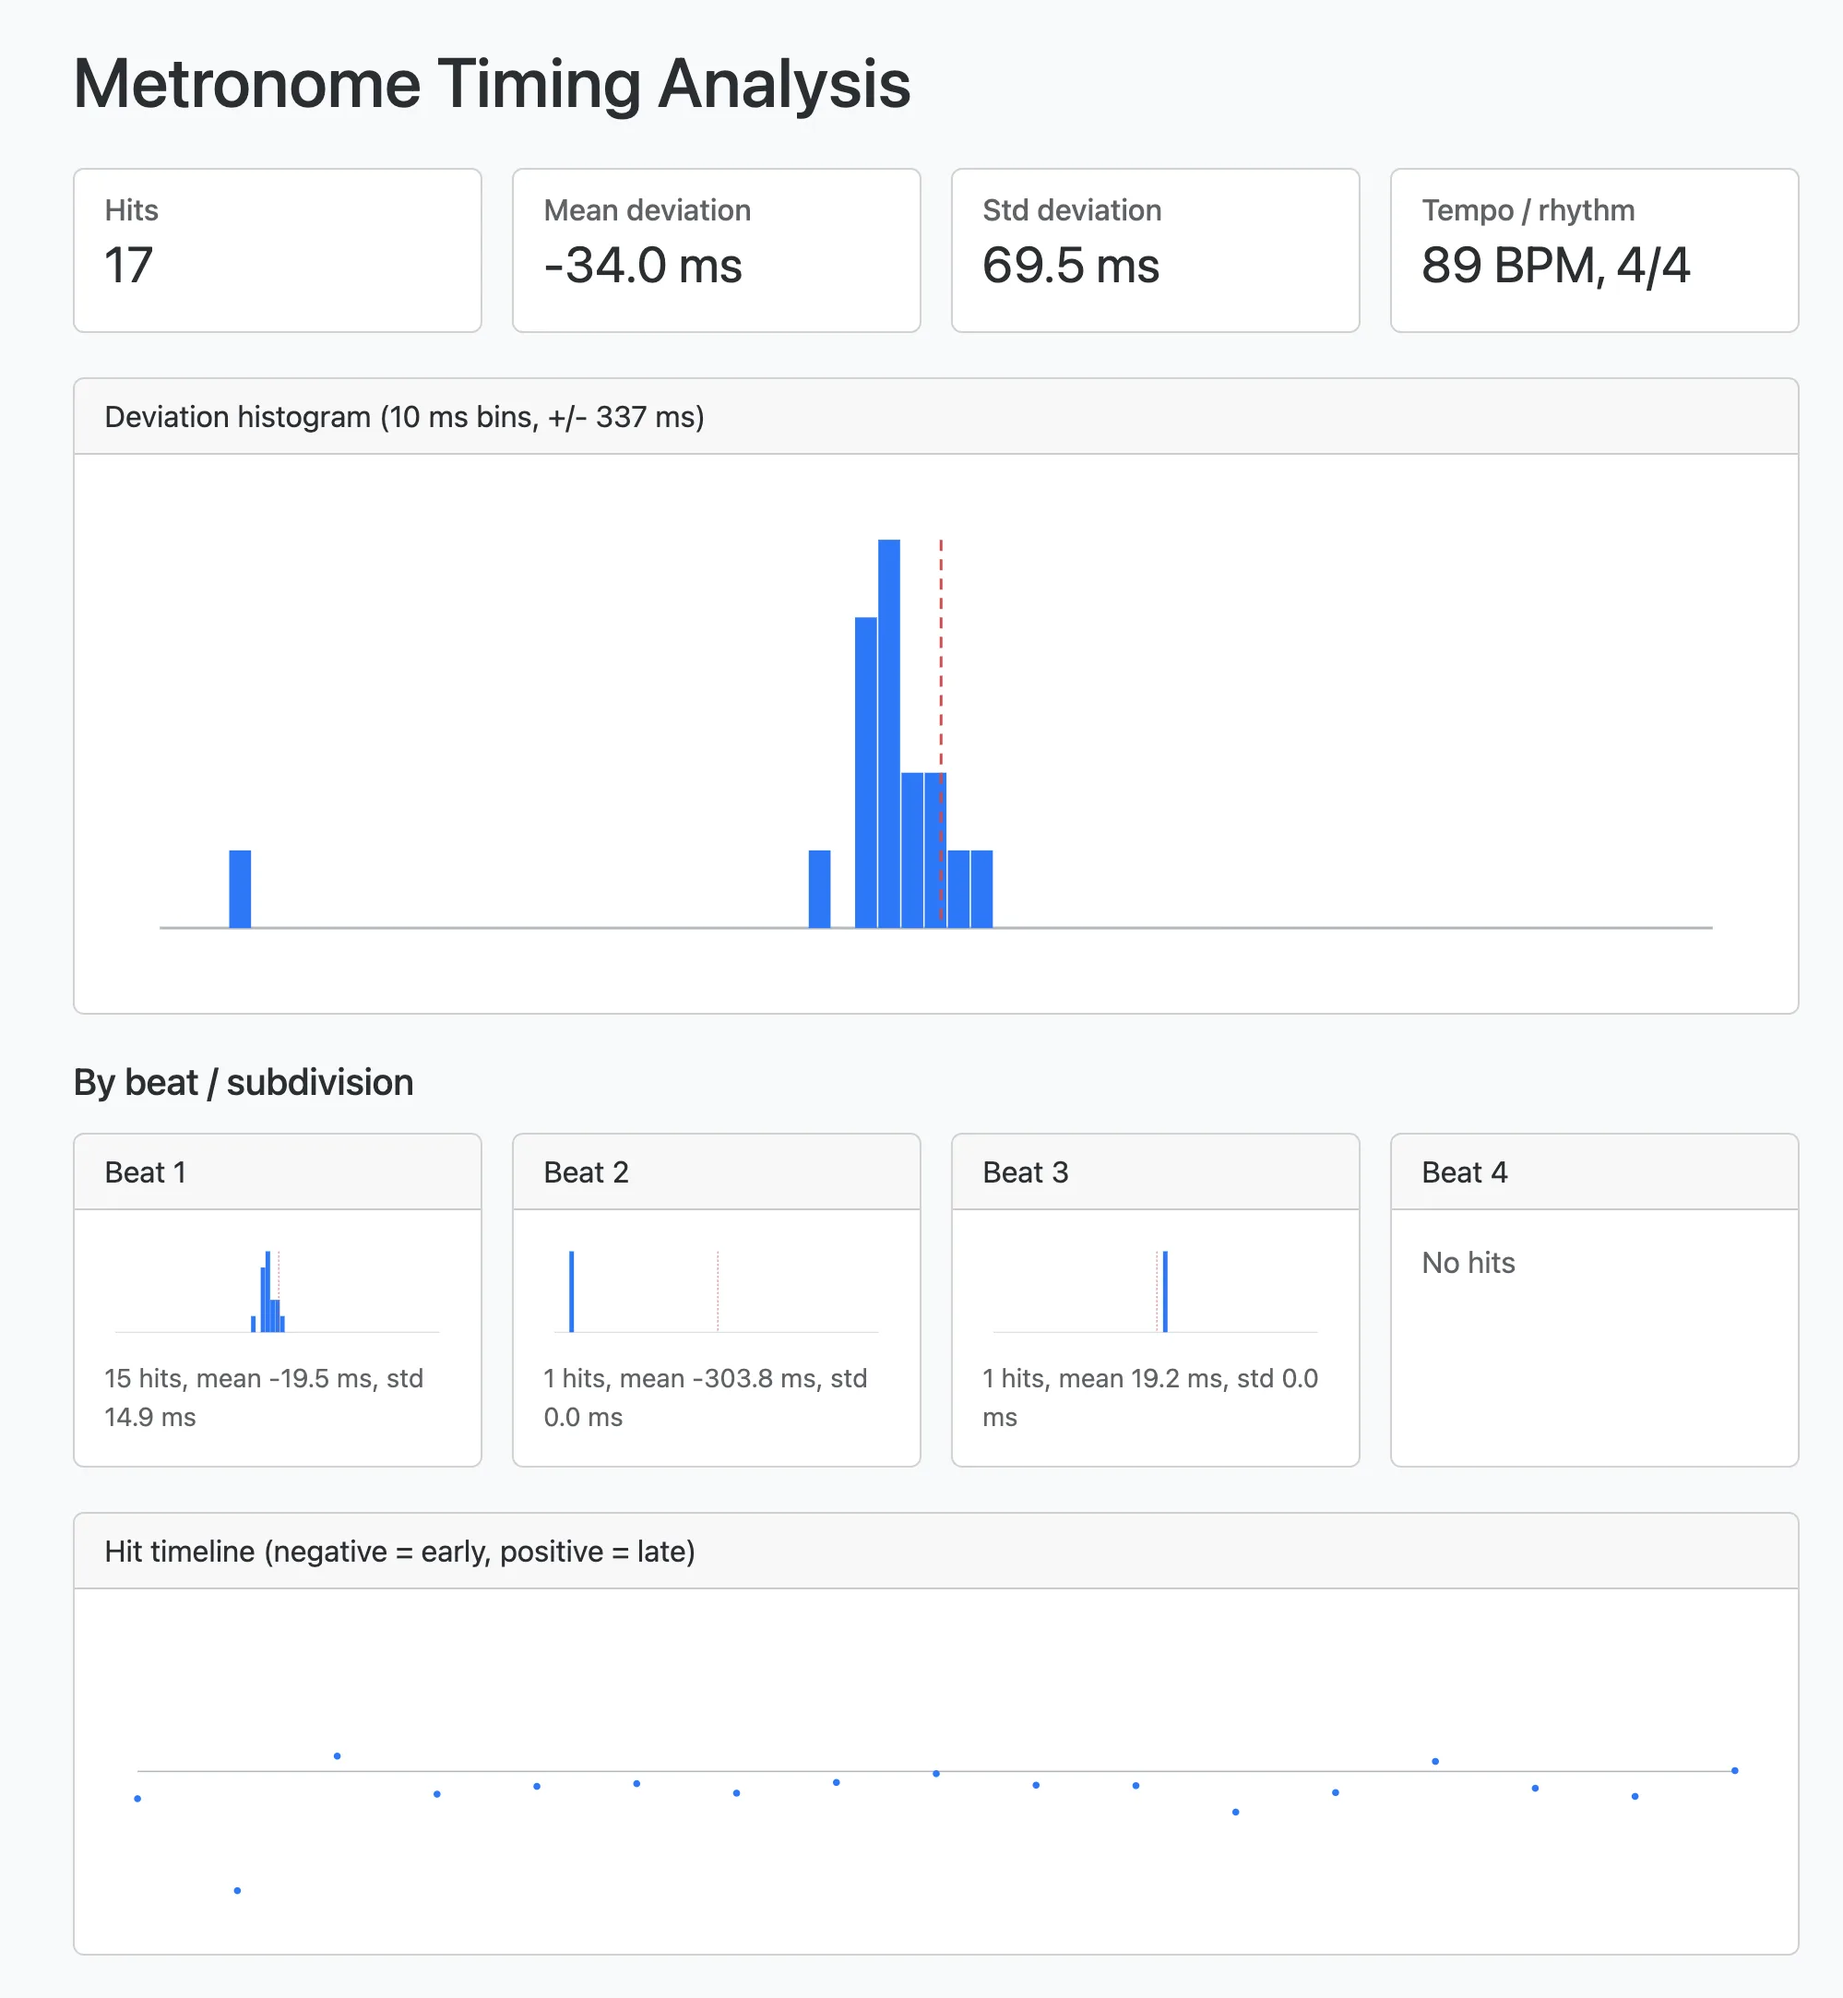
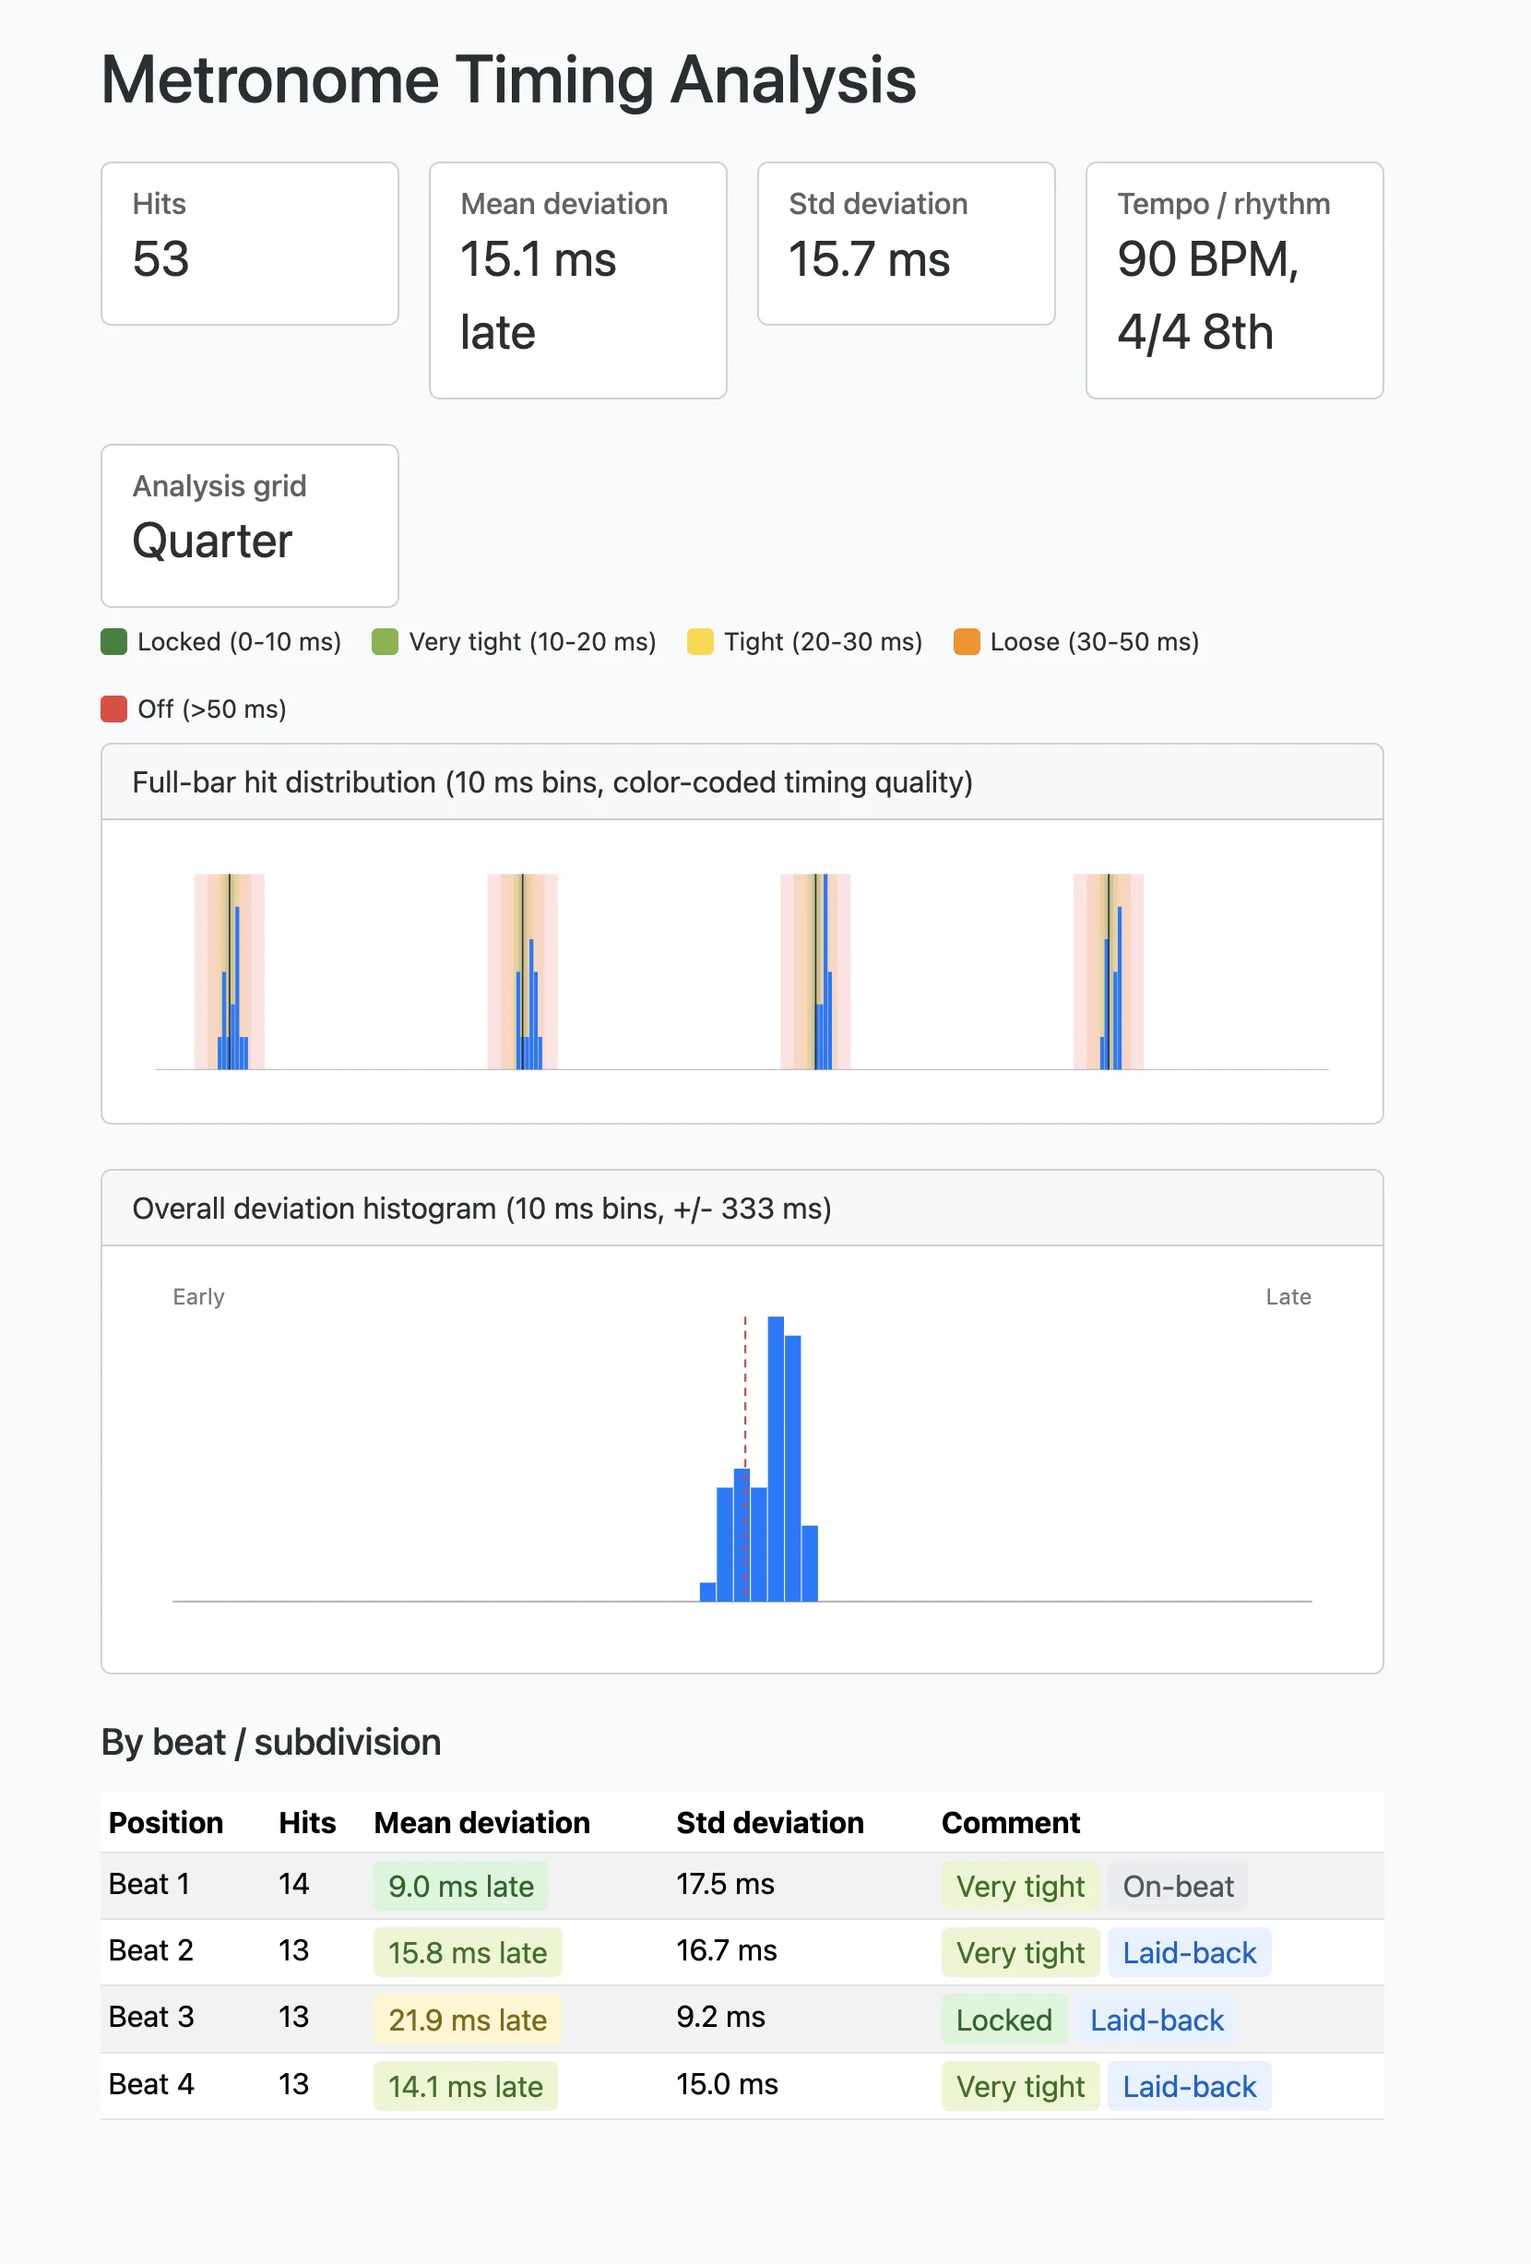
Update screenshots

diff --git a/README.md b/README.md
@@ -4,8 +4,8 @@ AbacDsp is a creative DSP library for audio plugins and standalone applications.
 Header-only, zero-dependency C++20 building blocks, with Lua scripting designed for
 LLM-assisted sound design.
 
-Realistic simulation is explicitly not a goal here: not natural instruments or acoustic
-spaces (no convolution IRs), and not emulating specific pedals, amps or cabs on the market.
+Realistic simulation is not a goal here: not natural instruments or acoustic
+spaces (e.g. convolution IRs), and not emulating specific pedals, amps or cabs on the market.
 The point is to get creative and go beyond the physical limitations of an acoustic
 instrument, room or piece of gear, using what digital audio makes possible instead of
 imitating what it doesn't need to - with the help of LLMs (often just called "AI", a name
@@ -94,9 +94,9 @@ clangd/`compile_commands.json` setup.
 
 ## Background
 
-This library grew out of 30+ years in the audio sector: optimizing filters at Steinberg as
+This library grew out of 35+ years in the audio sector: optimising filters at Steinberg as
 a student, experimental music, language-training audio, the karaoke boom's exaggerated
-delay and reverb chains, consumer audio electronics at Teufel, and most recently the
+delay and reverb chains, consumer audio electronics at Lautsprecher Teufel, and most recently the
 ffosso product at Orchestral Tools. Most of the DSP here is shaped by live performance -
 what stays expressive and controllable on stage, not just what measures well offline.
 
